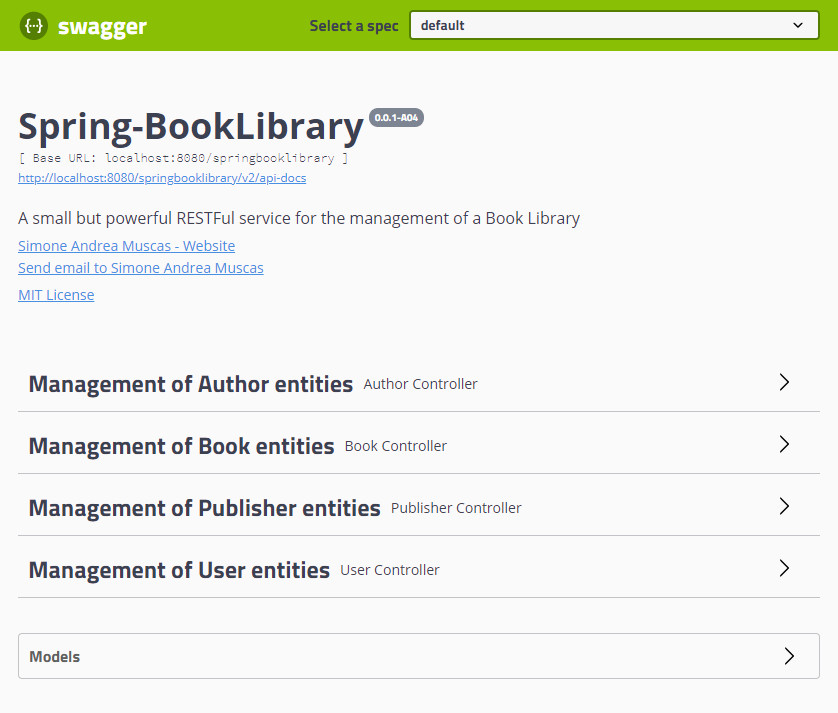
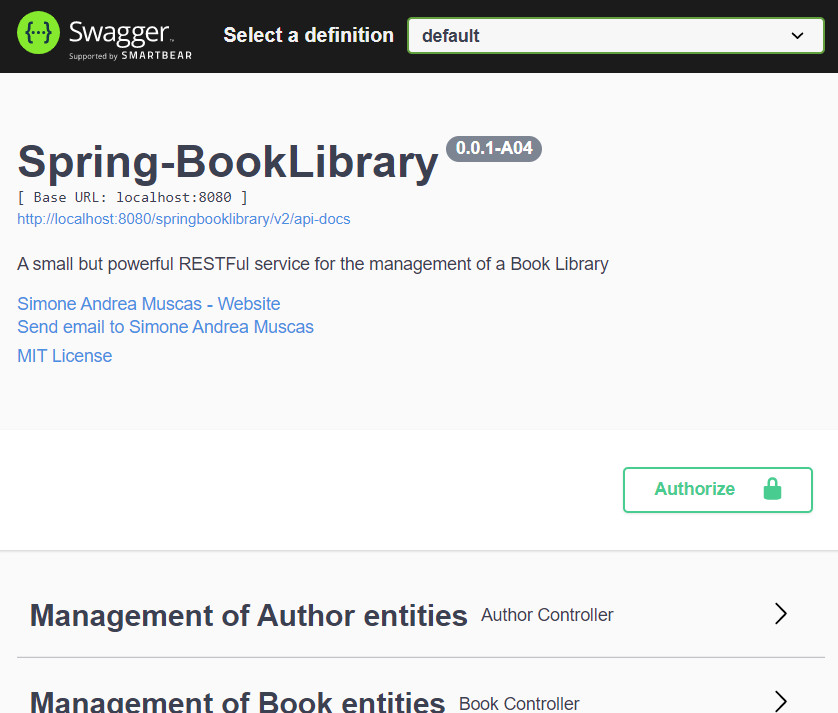
Updated documentation

diff --git a/src/main/java/org/niolikon/springbooklibrary/user/UserController.java b/src/main/java/org/niolikon/springbooklibrary/user/UserController.java
@@ -67,7 +67,8 @@ public class UserController {
             @ApiResponse(code = 200, message = "The User has been fetched"),
             @ApiResponse(code = 404, message = "Could not find the specified User"),
             @ApiResponse(code = 403, message = "You are not authorized to access this resource"),
-            @ApiResponse(code = 401, message = "You are not logged in") })
+            @ApiResponse(code = 401, message = "You are not logged in"),
+            @ApiResponse(code = 406, message = "You are not allowed to access others' user data") })
     public UserView getUser(@ApiParam("The ID of the User") @PathVariable Long id, 
             @ApiIgnore @AuthenticationPrincipal UserDetails principal) {  
         UserView userView = service.getUser(id);
@@ -90,7 +91,8 @@ public class UserController {
             @ApiResponse(code = 200, message = "The Users have been fetched"),
             @ApiResponse(code = 404, message = "No Users are present in the repository"),
             @ApiResponse(code = 403, message = "You are not authorized to access this resource"),
-            @ApiResponse(code = 401, message = "You are not logged in") })
+            @ApiResponse(code = 401, message = "You are not logged in"),
+            @ApiResponse(code = 406, message = "You are not allowed to access others' user data") })
     public Page<UserView> getAllUsers(@PageableDefault(sort = "id", direction = Sort.Direction.ASC) Pageable pageable,
             @ApiIgnore @AuthenticationPrincipal UserDetails principal) {
         boolean isAdminUser = principal.getAuthorities().stream().anyMatch( role -> role.getAuthority().matches("ROLE_ADMIN"));
@@ -141,7 +143,8 @@ public class UserController {
             @ApiResponse(code = 404, message = "Could not find the specified User"),
             @ApiResponse(code = 409, message = "Could not complete the modification, the input User data would cause duplication"),
             @ApiResponse(code = 403, message = "You are not authorized to access this resource"),
-            @ApiResponse(code = 401, message = "You are not logged in") })
+            @ApiResponse(code = 401, message = "You are not logged in"),
+            @ApiResponse(code = 406, message = "You are not allowed to perform the requested modification") })
     public UserView updateUser(@ApiParam("The ID of the User") @PathVariable Long id,
             @ApiParam("The input User data") @RequestBody @Valid UserRequest req,
             @ApiIgnore @AuthenticationPrincipal UserDetails principal) {

diff --git a/src/main/java/org/niolikon/springbooklibrary/system/BooklibrarySwaggerConfig.java b/src/main/java/org/niolikon/springbooklibrary/system/BooklibrarySwaggerConfig.java
@@ -3,11 +3,10 @@ package org.niolikon.springbooklibrary.system;
 import static springfox.documentation.builders.PathSelectors.regex;
 
 import java.util.Arrays;
+import java.util.List;
 
 import org.springframework.context.annotation.Bean;
 import org.springframework.context.annotation.Configuration;
-
-import com.google.common.collect.Lists;
 
 import springfox.documentation.builders.ApiInfoBuilder;
 import springfox.documentation.builders.RequestHandlerSelectors;
@@ -39,8 +38,8 @@ public class BooklibrarySwaggerConfig {
                     .paths(regex("/.*"))
                 .build()
                 .apiInfo(apiInfo())
-                .securityContexts(Lists.newArrayList(securityContext()))
-                .securitySchemes(Lists.newArrayList(basicAuthScheme()));
+                .securityContexts(List.of(securityContext()))
+                .securitySchemes(List.of(basicAuthScheme()));
     }
     
     private ApiInfo apiInfo() 
@@ -48,7 +47,7 @@ public class BooklibrarySwaggerConfig {
         return new ApiInfoBuilder()
                 .title("Spring-BookLibrary")
                 .description("A small but powerful RESTFul service for the management of a Book Library")
-                .version("0.0.1-A04")
+                .version("0.0.1-A05")
                 .license("MIT License")
                 .licenseUrl("https://github.com/niolikon/Spring-BookLibrary/blob/main/LICENSE")
                 .contact(new Contact("Simone Andrea Muscas",  "https://www.linkedin.com/in/simoneandreamuscas/", 

diff --git a/src/main/java/org/niolikon/springbooklibrary/security/CustomWebSecurityConfig.java b/src/main/java/org/niolikon/springbooklibrary/security/CustomWebSecurityConfig.java
@@ -83,8 +83,6 @@ public class CustomWebSecurityConfig extends WebSecurityConfigurerAdapter {
             .antMatchers(SWAGGER_WHITELIST)
 
             .antMatchers(HttpMethod.OPTIONS, "/**")
-            .antMatchers(HttpMethod.GET, "/csrf")
-            .antMatchers(HttpMethod.GET, "/error")
             .antMatchers(HttpMethod.GET, "/h2-console/**")
             .antMatchers(HttpMethod.POST, "/h2-console/**");
     }

diff --git a/README.md b/README.md
@@ -1,7 +1,7 @@
 ## Spring-BookLibrary
 > Spring RESTFul BookLibrary (Case Study)
 
-A small but powerful RESTFul service for the management of a Book Library.
+A small but powerful monolithic RESTFul service for the management of a Book Library.
 
 
 ## Motivation
@@ -17,17 +17,18 @@ Project is created with:
 * Spring Boot 2.3.9
 * Spring Web
 * Spring Data
+* Spring Security
 * DBUnit 2.5.4
 * Spring Test DBUnit 1.3.0
 * Jackson 2.11.1
-* Swagger 2.9.2
+* Swagger 3.0.0
 * Lombok 1.18.18
 
 
 ## Features
 - [x] Book management
-- [x] User management and authentication
-- [ ] User authorization
+- [x] User management
+- [x] Access management (authentication + authorization)
 - [ ] Reservation management
 
 
@@ -43,10 +44,12 @@ java -jar target/*.jar
 ```
 
 ## Documentation
-The exported RESTFul APIs are documented using [Swagger framework](https://swagger.io/), you can access the provided documentation by running Spring-BookLibrary and opening [Swing UI](http://localhost:8080/springbooklibrary/swagger-ui.html) on your browser.
-Please use the test credentials, Username "test" with Password "test".
+The exported RESTFul APIs are documented using [Swagger framework](https://swagger.io/), you can access the provided documentation by running Spring-BookLibrary and opening [Swing UI](http://localhost:8080/springbooklibrary/swagger-ui/) on your browser.
 
 <img src="Spring-BootLibrary_Swagger-Capture.jpg">
+
+Please use the <b>Authorize</b> button to test the CRUD operations with different user profiles. Feel free to use the test credentials Username "test" with Password "test".
+
 
 ## Test
 This project provides a [sample dashboard](Spring-BootLibrary_Insomnia-Dashboard.json) for [Insomnia REST Client](https://insomnia.rest/)
